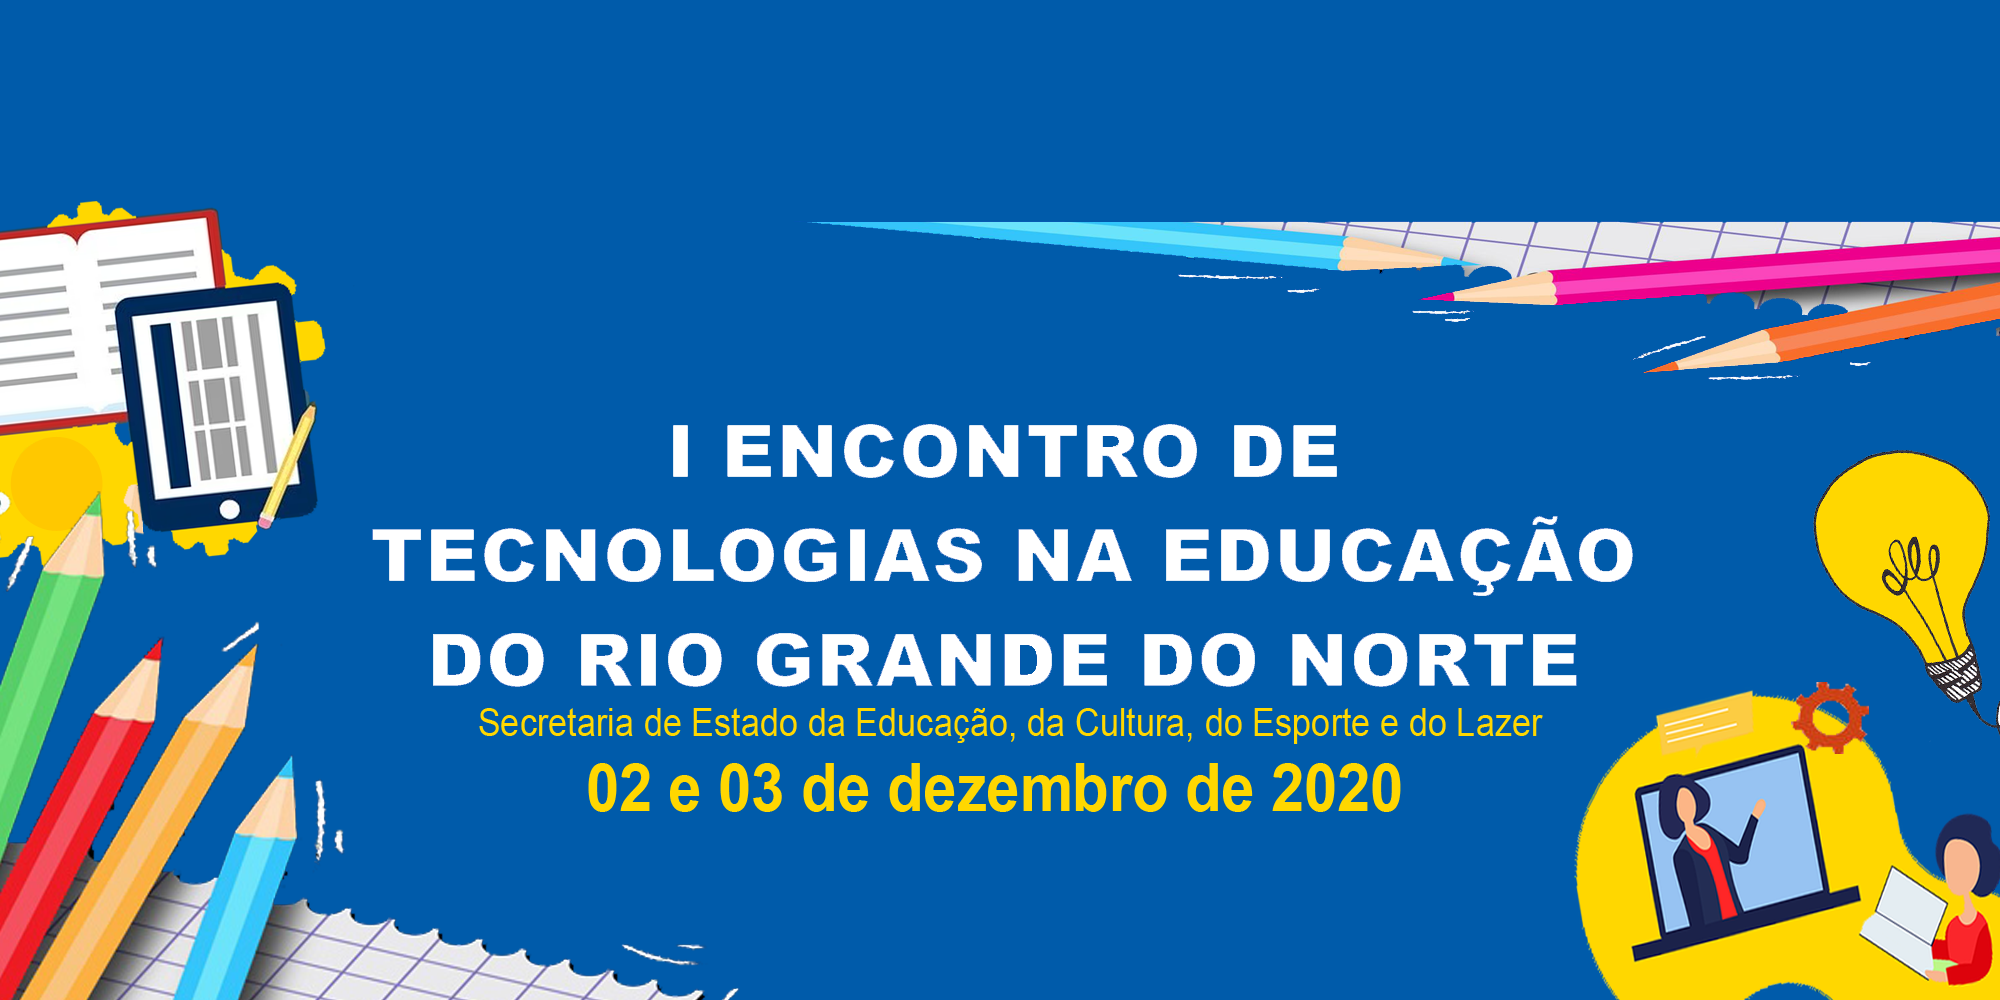
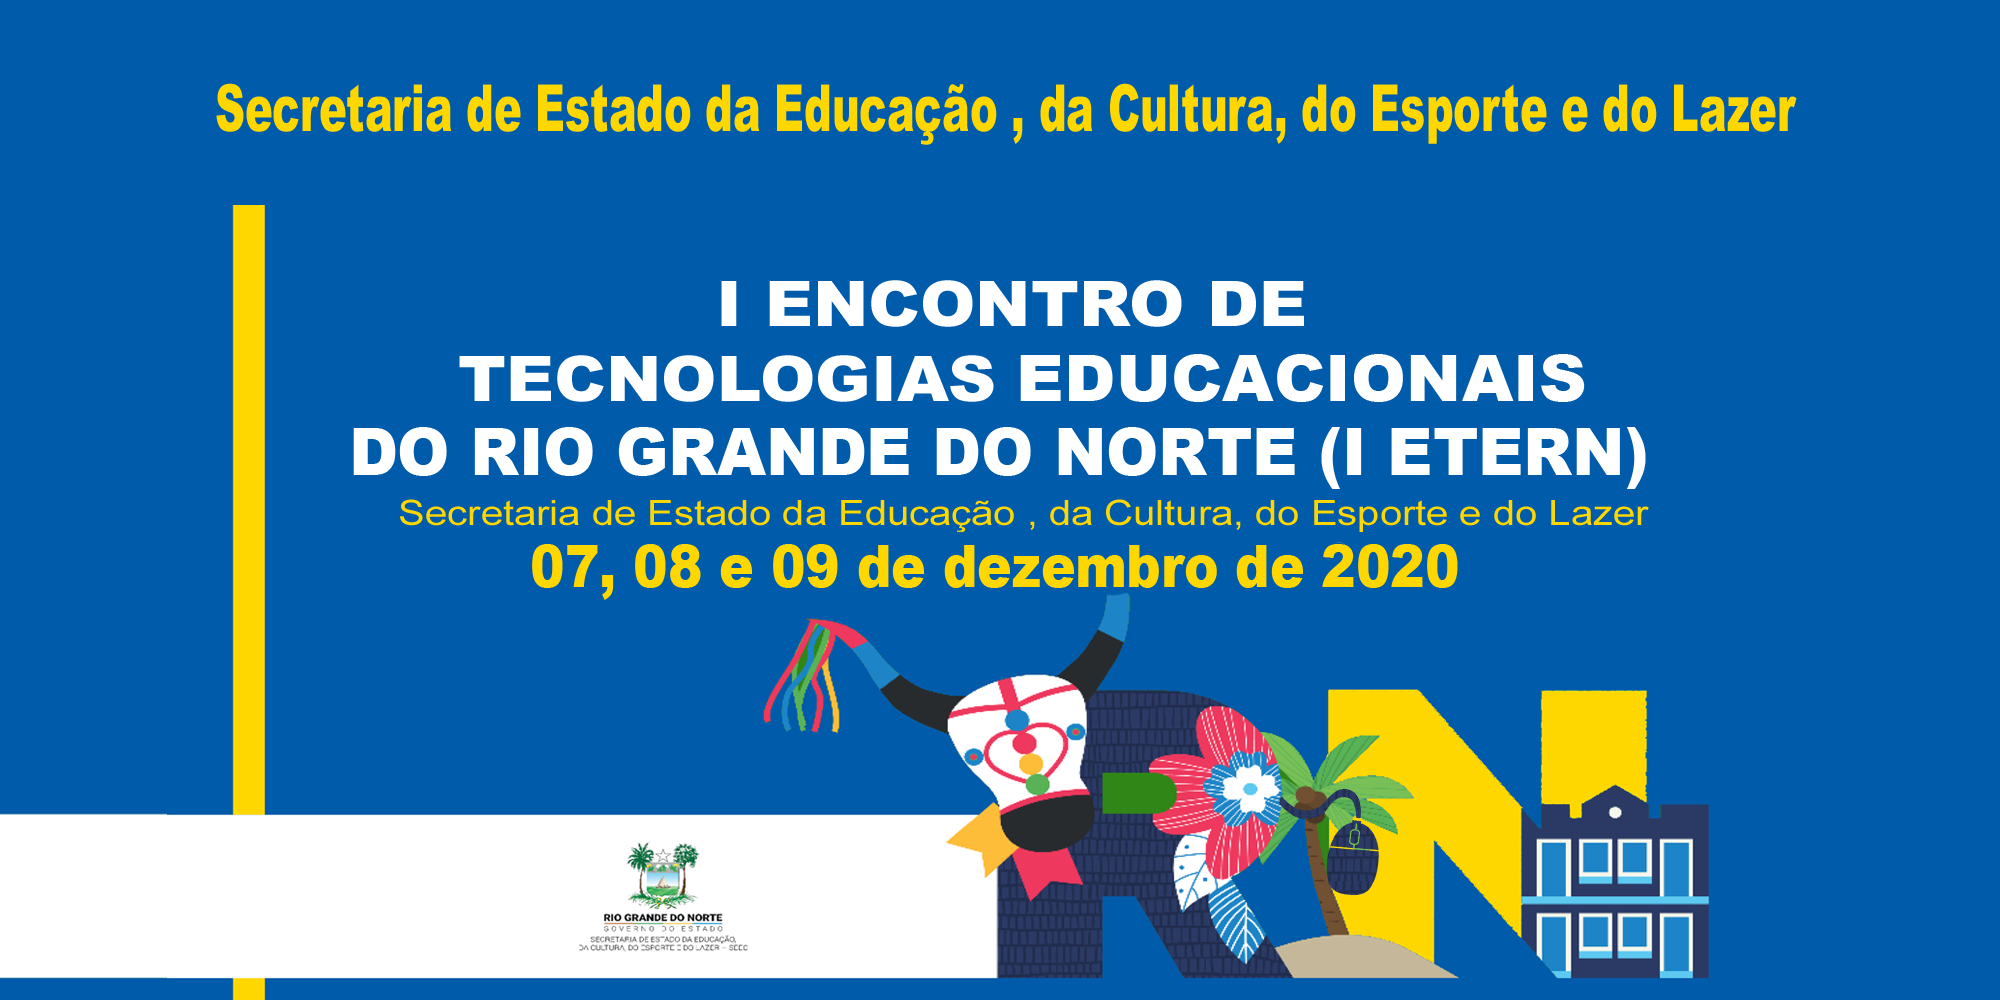
alteracao na data do evento e na imagem

diff --git a/index.html b/index.html
@@ -27,7 +27,7 @@
                         <li class="nav-item mx-0 mx-lg-1"><a class="nav-link py-3 px-0 px-lg-3 rounded js-scroll-trigger" href="#sub">Submissão</a></li>
                         <li class="nav-item mx-0 mx-lg-1"><a class="nav-link py-3 px-0 px-lg-3 rounded js-scroll-trigger" href="#contact">Certificação</a></li>
 						<li class="nav-item mx-0 mx-lg-1"><a class="nav-link py-3 px-0 px-lg-3 rounded js-scroll-trigger" href="comissao.html">Comissão</a></li>
-						<li class="nav-item mx-0 mx-lg-1"><a class="nav-link py-3 px-0 px-lg-3 rounded js-scroll-trigger" href="#contact">Fale Conosco</a></li>
+						<li class="nav-item mx-0 mx-lg-1"><a class="nav-link py-3 px-0 px-lg-3 rounded js-scroll-trigger" href="mailto:seec.etern@gmail.com">Fale Conosco</a></li>
 						<li class="nav-item mx-0 mx-lg-1"> <a style="font-size:15px"  href="https://sigeduc.rn.gov.br/sigeduc/public/eventos/exibir_eventos.jsf" class="btn btn-warning btn-lg">Inscreva-se</a></li>
                     </ul>
                 </div>
@@ -35,12 +35,12 @@
         </nav>
         <!-- Masthead-->
         <header class="masthead text-white text-center" style="background-color: #005baa">
-			<img src="images/fundoteste.png" style="width:100%;height:100%">
+			<img src="images/fundo.png" style="width:100%;height:100%">
         </header>
 
 
 		<!-- Apresentação -->
-		<section class="page-section">
+		<section class="page-section" id="apresentacao">
 			<div class="container marketing">
 				<div class="row featurette">
 				  <div class="col-md-7 order-md-2">
@@ -100,8 +100,8 @@
 					  </thead>
 					  <tbody class="text-center">
 					  <tr>
-						  <td style="font-size: 16px;color: #ffa800;font-weight: 650">26/10/2020 a 10/11/2020</td>				      
-						  <td><b><a style="font-size: 16px;" >1ª Submissão (sem identificação dos autores)</a></b></td>						  									  
+						  <td style="font-size: 16px;color: #ffa800;font-weight: 650">26/10/2020 a 28/11/2020</td>				      
+						  <td><b><a style="font-size: 16px;" >Inscrições no Evento</a></b></td>						  									  
 						</tr>
 						<tr>
 						  <td style="font-size: 16px;color: #ffa800;font-weight: 650">26/10/2020 a 10/11/2020</td>				      

diff --git a/css/styles.css b/css/styles.css
@@ -211,6 +211,7 @@ figure {
 img {
   vertical-align: middle;
   border-style: none;
+  max-width: 100%;
 }
 
 svg {
@@ -10111,7 +10112,7 @@ h3 {
   color: #fff;
 }
 #mainNav .navbar-nav li.nav-item a.nav-link.active {
-  color: #1abc9c;
+  color: #f9e426;
 }
 #mainNav .navbar-toggler {
   font-size: 80%;
@@ -10133,11 +10134,11 @@ h3 {
   }
   #mainNav .navbar-nav > li.nav-item > a.nav-link.active {
     color: #fff;
-    background: #1abc9c;
+    background: #f9e426;
   }
   #mainNav .navbar-nav > li.nav-item > a.nav-link.active:active, #mainNav .navbar-nav > li.nav-item > a.nav-link.active:focus, #mainNav .navbar-nav > li.nav-item > a.nav-link.active:hover {
     color: #fff;
-    background: #1abc9c;
+    background: #f9e426;
   }
 
   #mainNav.navbar-shrink {
